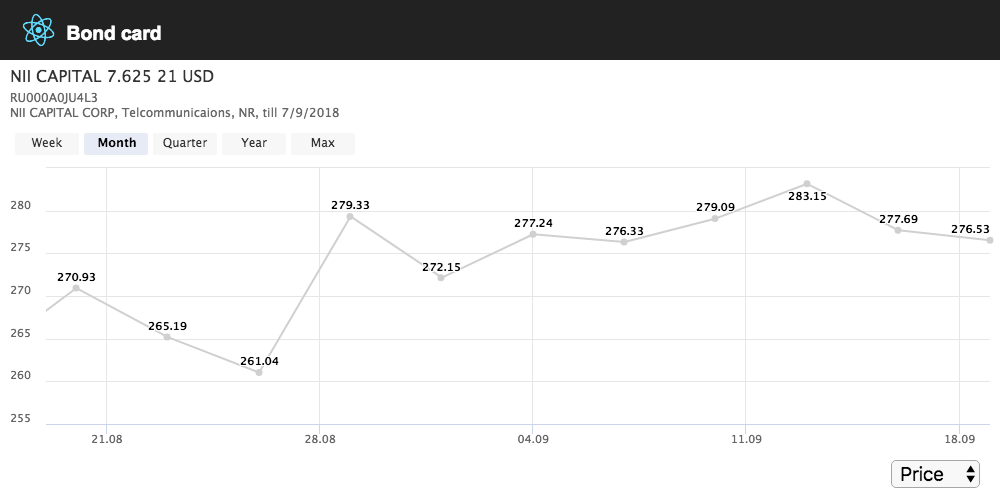
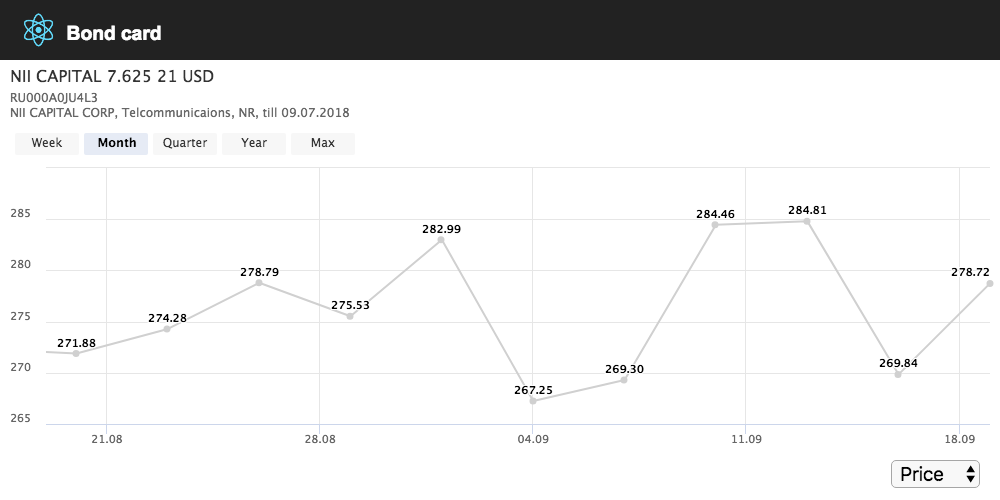
Improve ValueTypeSelectComponent * add no-cache param to test script * improve e2e tests * add ru local to Intl date time format * update screenshot * formatting

diff --git a/src/test/open.e2e.test.js b/src/test/open.e2e.test.js
@@ -1,4 +1,4 @@
-// // puppeteer https://blog.bitsrc.io/testing-your-react-app-with-puppeteer-and-jest-c72b3dfcde59
+// puppeteer https://blog.bitsrc.io/testing-your-react-app-with-puppeteer-and-jest-c72b3dfcde59
 
 import puppeteer from "puppeteer";
 import { ValueType } from "../types";
@@ -14,11 +14,11 @@ describe("e2e tests", () => {
       timeout: 3000
     });
     page = await browser.newPage();
-    await page.goto("http://localhost:3000/", {
-      waitUntil: "networkidle0",
-      timeout: 60000
-    });
     await page.setViewport({ width: 1000, height: 500 });
+    await page.goto("http://localhost:3000/", {
+      waitUntil: "networkidle2",
+      timeout: 10000
+    });
   });
 
   it(
@@ -34,7 +34,6 @@ describe("e2e tests", () => {
   it(
     "screenshot",
     async () => {
-      await page.waitFor(3000);
       await page.screenshot({ path: "images/screenshot.png" });
     },
     5000
@@ -44,7 +43,6 @@ describe("e2e tests", () => {
     "has one select with spread value",
     async () => {
       await page.select("select", ValueType.SPREAD);
-
       const html = await page.$eval("select", e => e.value);
       expect(html).toBe(ValueType.SPREAD);
     },
@@ -55,7 +53,6 @@ describe("e2e tests", () => {
     "select yield value",
     async () => {
       await page.select("select", ValueType.YIELD);
-
       const html = await page.$eval("select", e => e.value);
       expect(html).toBe(ValueType.YIELD);
     },
@@ -66,7 +63,6 @@ describe("e2e tests", () => {
     "select price value",
     async () => {
       await page.select("select", ValueType.PRICE);
-
       const html = await page.$eval("select", e => e.value);
       expect(html).toBe(ValueType.PRICE);
     },
@@ -77,7 +73,6 @@ describe("e2e tests", () => {
     "select not available value",
     async () => {
       await page.select("select", "not available value");
-
       const html = await page.$eval("select", e => e.value);
       expect(html).toBe("");
     },

diff --git a/src/components/ValueTypeSelectComponent.test.js b/src/components/ValueTypeSelectComponent.test.js
@@ -11,26 +11,25 @@ configure({ adapter: new Adapter() });
 describe("<ValueTypeSelectComponent />", () => {
   it("renders without crashing", () => {
     const { filter } = initialState.bond;
-    const onBondDataFilterChange = sinon.spy();
+    const onChange = sinon.spy();
     const wrapper = mount(
       <ValueTypeSelectComponent
-        filter={filter}
-        onFilterChange={onBondDataFilterChange}
+        defaultValue={filter.valueType}
+        onChange={onChange}
       />
     );
 
-    expect(wrapper.props().filter.isin).toBe(filter.isin);
-    expect(wrapper.props().filter.valueType).toBe(filter.valueType);
-    expect(wrapper.props().onFilterChange).toBe(onBondDataFilterChange);
+    expect(wrapper.props().defaultValue).toBe(filter.valueType);
+    expect(wrapper.props().onChange).toBe(onChange);
   });
 
   it("snapshot", () => {
     const { filter } = initialState.bond;
-    const onBondDataFilterChange = sinon.spy();
+    const onChange = sinon.spy();
     const wrapper = mount(
       <ValueTypeSelectComponent
-        filter={filter}
-        onFilterChange={onBondDataFilterChange}
+        defaultValue={filter.valueType}
+        onChange={onChange}
       />
     );
     expect(shallowToJson(wrapper)).toMatchSnapshot();
@@ -38,14 +37,14 @@ describe("<ValueTypeSelectComponent />", () => {
 
   it('simulates click events', () => {
     const { filter } = initialState.bond;
-    const onBondDataFilterChange = sinon.spy();
+    const onChange = sinon.spy();
     const wrapper = mount(
       <ValueTypeSelectComponent
-        filter={filter}
-        onFilterChange={onBondDataFilterChange}
+        defaultValue={filter.valueType}
+        onChange={onChange}
       />
     );
     wrapper.simulate('change');
-    expect(onBondDataFilterChange.called).toBeTruthy();
+    expect(onChange.called).toBeTruthy();
   });
 });

diff --git a/src/components/BondHighstockComponent.js b/src/components/BondHighstockComponent.js
@@ -8,7 +8,9 @@ export class BondHighstockComponent extends React.Component {
   chart = null;
 
   render() {
-    return <div ref={element => (this.element = element)} className="highstock" />;
+    return (
+      <div ref={element => (this.element = element)} className="highstock" />
+    );
   }
 
   componentDidMount() {
@@ -39,7 +41,7 @@ export class BondHighstockComponent extends React.Component {
     this.chart = Highcharts.stockChart(this.element, config);
     window.setTimeout(() => {
       this.chart.rangeSelector.clickButton(1, true);
-    }, 10)
+    }, 10);
   }
 
   updateChart(options) {
@@ -54,7 +56,7 @@ export class BondHighstockComponent extends React.Component {
 
   createConfig(options) {
     const date = new Date();
-    const dateFormat = new Intl.DateTimeFormat().format(date);
+    const dateFormat = new Intl.DateTimeFormat("ru").format(date);
     const subtitle =
       `${options.filter.isin}` +
       "<br>" +
@@ -109,7 +111,7 @@ export class BondHighstockComponent extends React.Component {
             text: "Max",
             type: "all"
           }
-        ],
+        ]
       },
       tooltip: {
         shared: true,

diff --git a/src/components/ValueTypeSelectComponent.js b/src/components/ValueTypeSelectComponent.js
@@ -7,18 +7,16 @@ export class ValueTypeSelectComponent extends React.Component {
   availableValueTypes = [ValueType.YIELD, ValueType.SPREAD, ValueType.PRICE];
 
   render() {
-    const { filter } = this.props;
+    const { defaultValue } = this.props;
     return (
-      <select defaultValue={filter.valueType} onChange={this.onValueTypeChange}>
+      <select defaultValue={defaultValue} onChange={this.onValueTypeChange}>
         {this.buildOptions()}
       </select>
     );
   }
 
   onValueTypeChange = ev => {
-    this.props.onFilterChange({
-      valueType: ev.target.value
-    });
+    this.props.onChange(ev.target.value);
   };
 
   buildOptions() {

diff --git a/src/modules/CardModule.js b/src/modules/CardModule.js
@@ -26,15 +26,17 @@ export class CardModule extends React.Component {
         </header>
         <BondHighstockComponent data={data} filter={filter} />
         <ValueTypeSelectComponent
-          filter={filter}
-          onFilterChange={this.onBondDataFilterChange}
+          defaultValue={filter.valueType}
+          onChange={this.onBondDataFilterChange}
         />
       </div>
     );
   }
 
-  onBondDataFilterChange = (filter) => {
-    this.props.dispatch(bondDataFething(filter));
+  onBondDataFilterChange = (valueType) => {
+    this.props.dispatch(bondDataFething({
+      valueType
+    }));
   }
 }
 
